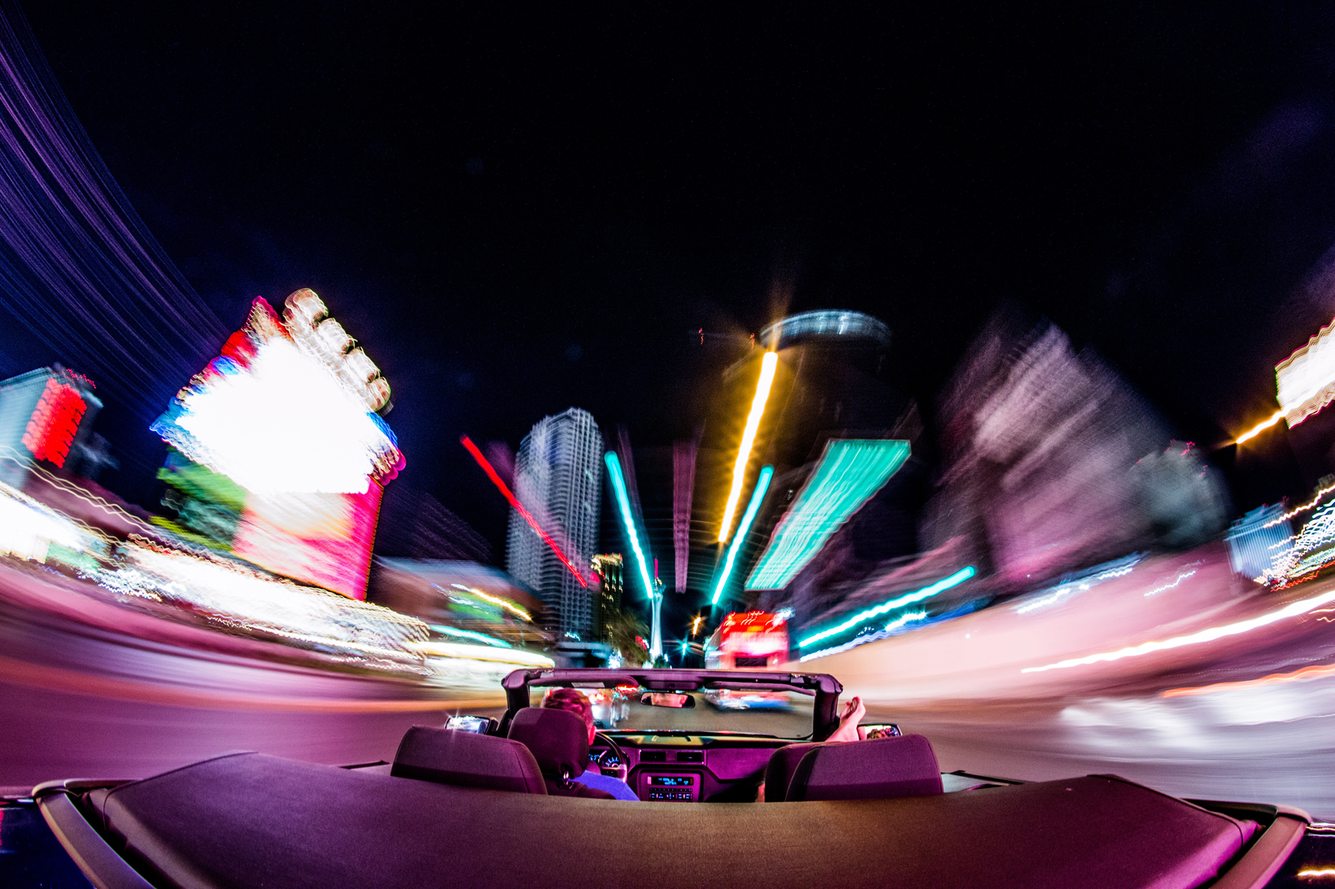
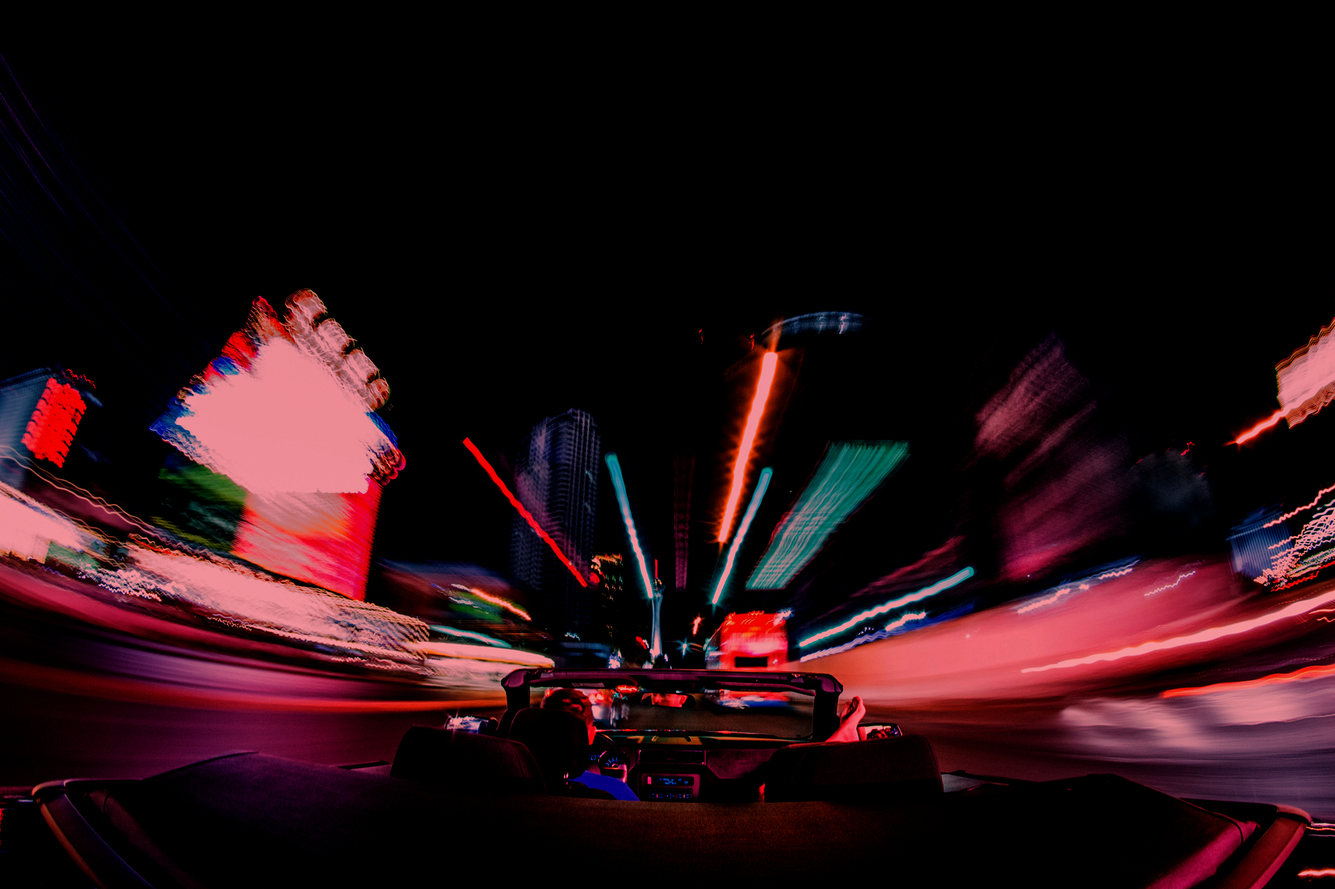
Replaced Styles.  Added BG.  Removed extra divs.

diff --git a/src/views/Login.css b/src/views/Login.css
@@ -1,20 +1,17 @@
 /* Login.css */
 
 #login_full {
-}
-
-#bg_container{
-    position:absolute;
-    top: 0;
-    left: 0;
-    height: 100%;
-    width: 100%;
-    /*background-image: url(../images/bg/bg_speed_car.jpg);*/
+    height: inherit;
+    width: inherit;
+    display: flex;
+    flex-direction:column;
+    align-items: center;
+    justify-content: center;
+    background-image: url(/images/bg/bg_speed_car.jpg);
     background-repeat: no-repeat;
     background-attachment: fixed;
     background-position: center center;
     background-size: cover;
-    /*mix-blend-mode: multiply;*/
 }
 
 #login_block {
@@ -46,7 +43,7 @@
     outline: none;
 }
 
-#login_block .field {
+#login_block .field,  #button{
     height: 4vh;
     width: 250px;
     margin-left: 0;
@@ -63,18 +60,11 @@
 }
 
 #button {
-    height: 4vh;
-    width: 250px;
     text-align: left;
     margin-left: -8px;
     margin-top: 2vh;
-    display: block;
     border: none;
     background-color: transparent;
-    font-family: 'Cabin', sans-serif;
-    font-weight: 400;
-    font-size: 24px;
-    color: white;
 }
 
 

diff --git a/src/views/Login.js b/src/views/Login.js
@@ -1,6 +1,5 @@
 import React, { Component } from 'react';
 import "./Login.css"
-import {Helmet} from "react-helmet";
 import {performLogin} from "../models/index"
 import TextLogin from "../components/TextLogin";
 import TextLoading from "../components/TextLoading";
@@ -33,11 +32,7 @@ class Login extends Component {
     const { loading } = this.state;
     return (
       <div id="login_full">
-        {/* Helmet - load stylesheet based on current page */}
-        <Helmet>
-          <link rel="stylesheet" type="text/css" href="css/Login.css" />
-        </Helmet>
-        <div id="login_block" className="centerVH">
+        <div id="login_block">
           {loading ? <TextLoading/> : <TextLogin/>}
           <form onSubmit={this.handleLoginClick}>
             <input className={"field"} required placeholder="Username" onChange={(event) => {this.setState({usernameValue: event.target.value})}}/>

diff --git a/src/views/OrderTypeMenu.css b/src/views/OrderTypeMenu.css
@@ -43,3 +43,24 @@
 .type_block li:hover {
     background-color: var(--LIGHT_ORANGE);
 }
+
+/* Maximum aspect ratio */
+#buy_block {
+    background-color: var(--MID_ORANGE);
+    background-image: url(/images/bg/bg_buying.jpg);
+    background-repeat: no-repeat;
+    background-attachment: fixed;
+    background-position: center center;
+    background-size: cover;
+}
+
+@media (max-aspect-ratio: 2/3) {
+    #buy_block {
+        background-image: url(/images/bg/bg_buying_portrait.jpg);
+        background-repeat: no-repeat;
+        background-attachment: fixed;
+        background-position: center center;
+        background-size: cover;
+    }
+}
+

diff --git a/src/Presenter.js b/src/Presenter.js
@@ -115,6 +115,11 @@ class Presenter extends Component {
       case "cardList": // TODO: Update according to CardList props parameters.
         return <CardList
                   username={'ID'}/>;
+
+      default:
+        return <OrderTypeMenu
+          username={this.state.username}
+          transitionToBuyerList={this.transitionToBuyerList}/>;
     }
   }
 
@@ -136,9 +141,8 @@ class Presenter extends Component {
               transitionTo = {this.transitionTo}
               showMenu = 'true'
         />
-        <div id="bg_container">
-        </div>
         {this.viewSwitch(this.state.currentView)}
+
       </div>
     )
   }

diff --git a/src/components/TextLogin.js b/src/components/TextLogin.js
@@ -3,7 +3,7 @@
 import React, {Component} from "react";
 import "./Text.css"
 import styled, { keyframes } from "styled-components";
-import { fadeIn, fadeInDown } from "react-animations";
+import { fadeIn } from "react-animations";
 
 // const FadeFast  = styled.div`animation: 1s ${keyframes`${fadeIn}`} 1`;
 const Fade = styled.div`animation: 3s ${keyframes`${fadeIn}`} 1`;

diff --git a/src/components/OrderTypeBuy.js b/src/components/OrderTypeBuy.js
@@ -19,7 +19,7 @@ class OrderTypeBuy extends Component {
   render() {
     return (
       <div id="buy_wrapper">
-        <div className={"home_block"} style={{backgroundColor: 'var(--MID_ORANGE)'}}>
+        <div className={"home_block"} id={"buy_block"}>
           <div className={"type_block"}>
             <h1>Buying.</h1>
             <ul>

diff --git a/public/css/Login.css b/public/css/Login.css
@@ -2,5 +2,5 @@
 
 /* Custom Page Colors & Styles */
 #root {background-color: var(--MID_RED);}
-#bg_container {background-image: url(/images/bg/bg_speed_car.jpg); mix-blend-mode: multiply;}
+/*#bg_container {background-image: url(/images/bg/bg_speed_car.jpg); mix-blend-mode: multiply;}*/
 
